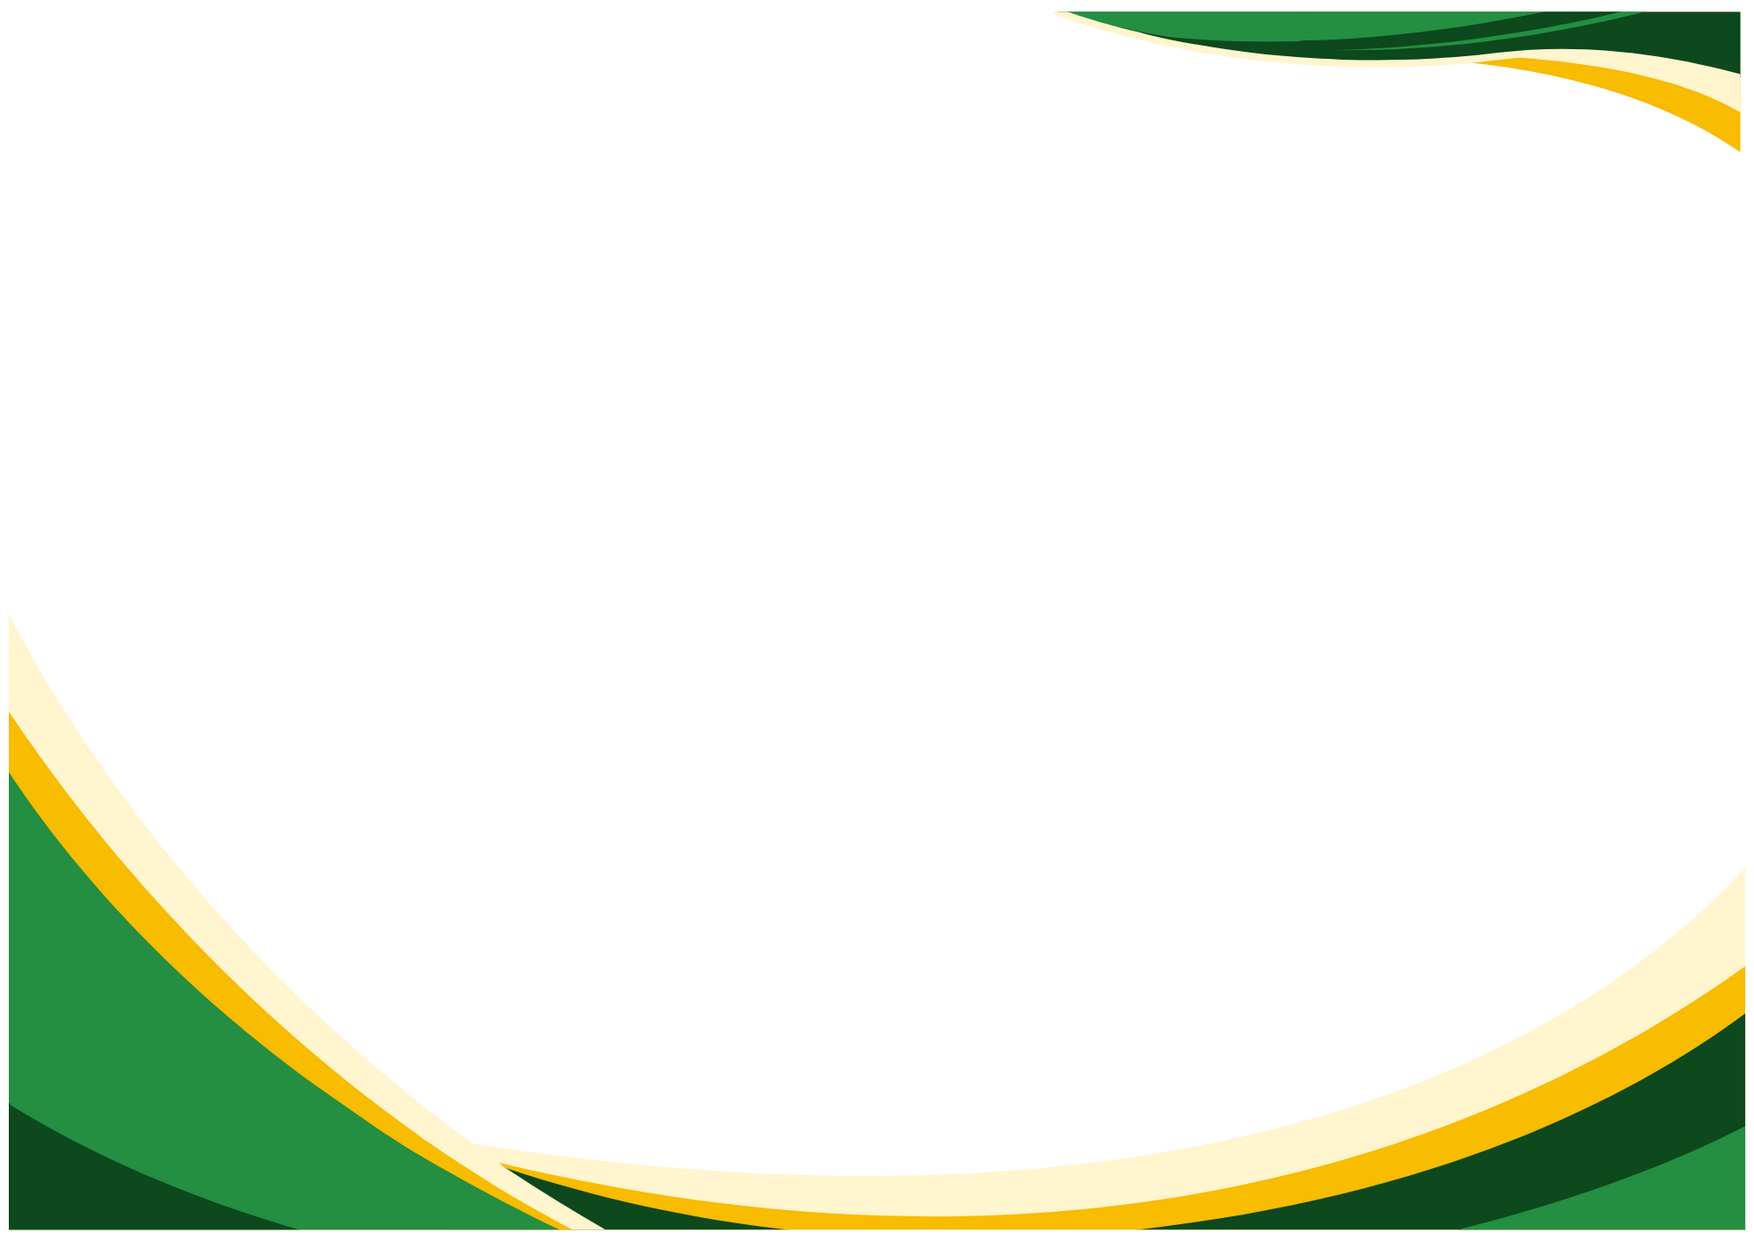
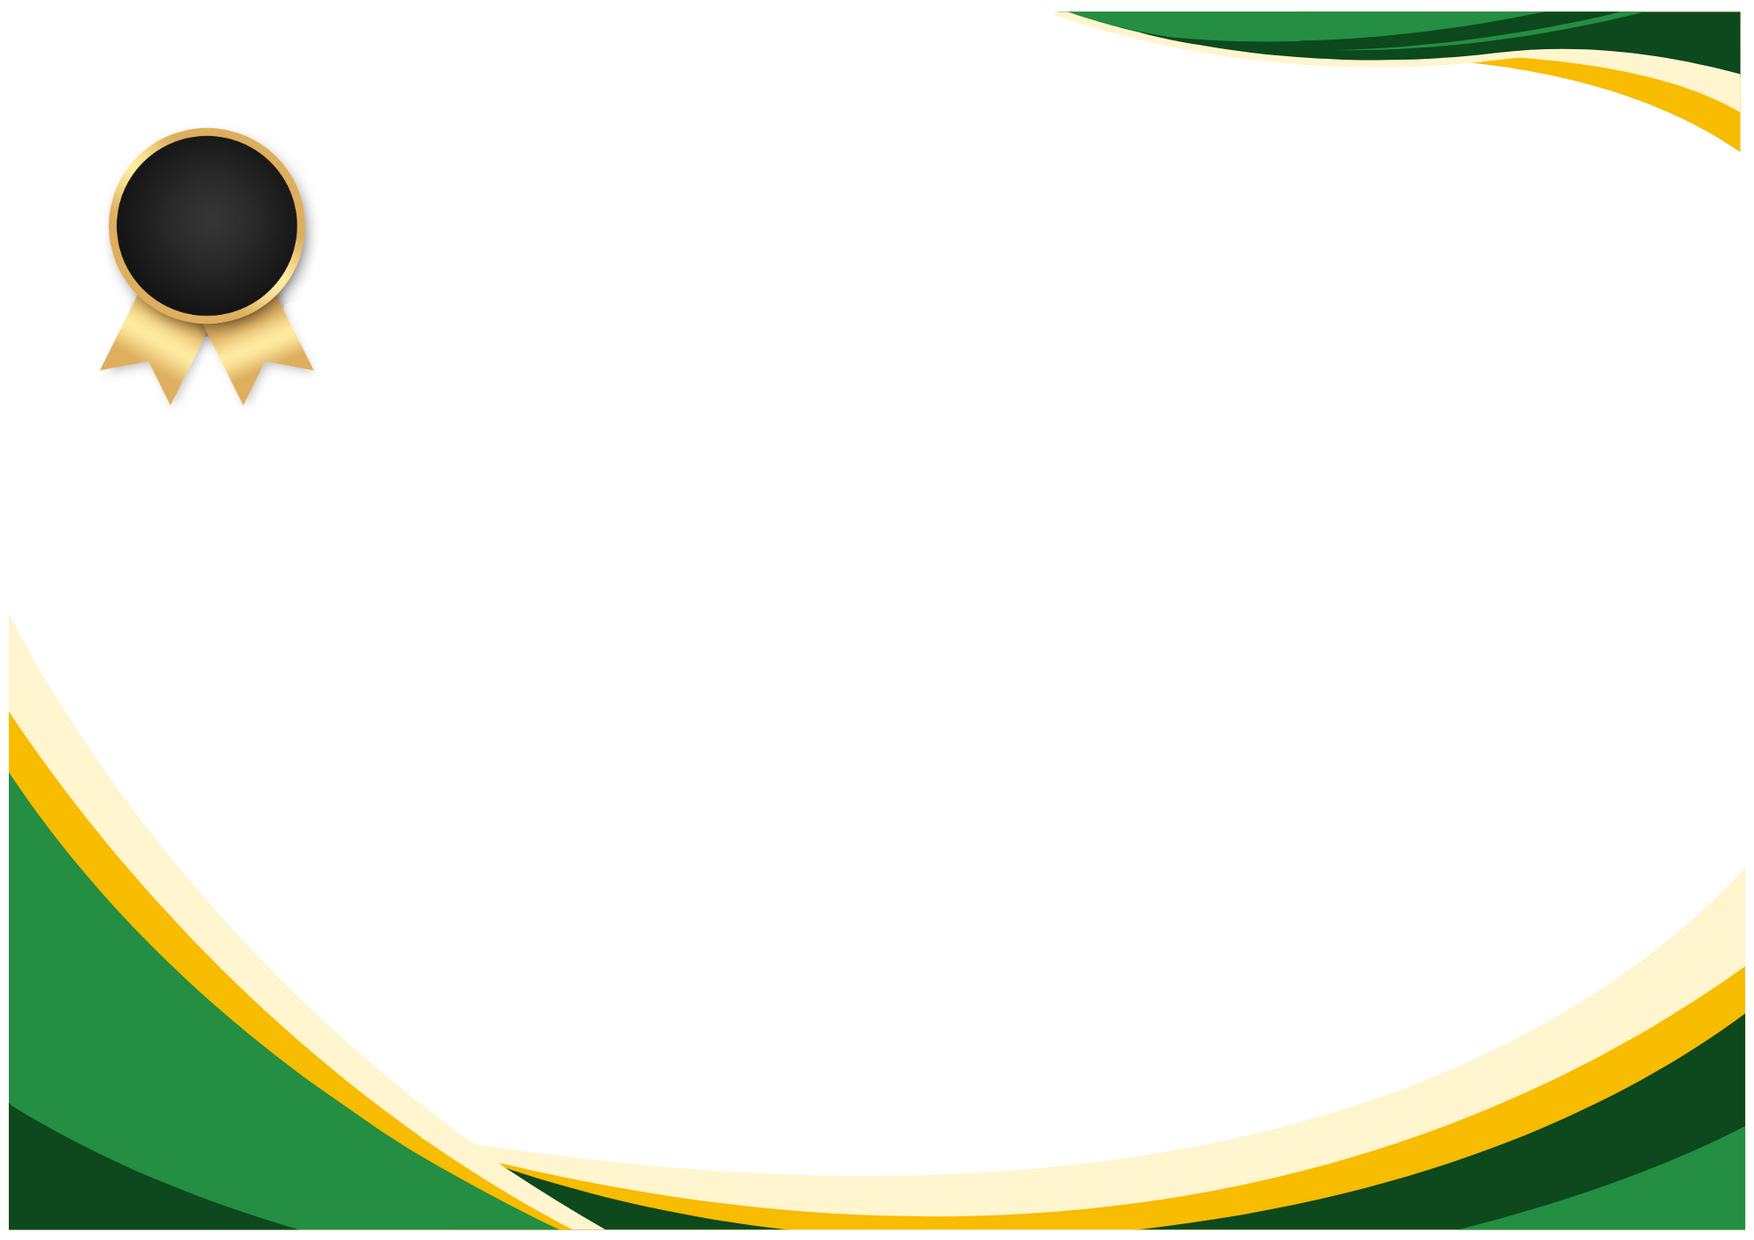
fix

Changed region(s): [[0.0616, 0.0919, 0.1847, 0.3371]]

diff --git a/src/components/AppGramotaPochetnaja.vue b/src/components/AppGramotaPochetnaja.vue
@@ -158,23 +158,23 @@ const formattedDate = computed(() => {
 
 .gramot :deep(.logoSt1),
 .gramot :deep(.logoSnow) {
-  fill: #b39566;
-  /* fill: url(#goldGradient); */
+  /* fill: #eedc92; */
+  fill: url(#goldGradient);
 }
 
 .gramot :deep(.logoSt0) {
   fill: none;
-  stroke: #b39566;
-  /* stroke: url(#goldGradient); */
+  /* stroke: #eedc92; */
+  stroke: url(#goldGradient);
   stroke-width: 8;
   stroke-miterlimit: 10;
 }
 
 .gramot .logo {
-  width: 100px;
+  width: 90px;
   position: absolute;
-  left: 40px;
-  top: 40px;
+  left: 87px;
+  top: 101px;
   z-index: 1;
 }
 
@@ -182,7 +182,7 @@ h1 {
   font-family: 'Lora', serif;
   font-size: 3.2em;
   line-height: 1;
-  margin-top: 80px;
+  margin-top: 110px;
   font-weight: 500;
   color: var(--colorGreen);
 }

diff --git a/src/components/AppBlagodarnost.vue b/src/components/AppBlagodarnost.vue
@@ -158,23 +158,23 @@ const formattedDate = computed(() => {
 
 .gramot :deep(.logoSt1),
 .gramot :deep(.logoSnow) {
-  fill: #b39566;
-  /* fill: url(#goldGradient); */
+  /* fill: #eedc92; */
+  fill: url(#goldGradient);
 }
 
 .gramot :deep(.logoSt0) {
   fill: none;
-  stroke: #b39566;
-  /* stroke: url(#goldGradient); */
+  /* stroke: #eedc92; */
+  stroke: url(#goldGradient);
   stroke-width: 8;
   stroke-miterlimit: 10;
 }
 
 .gramot .logo {
-  width: 100px;
+  width: 90px;
   position: absolute;
-  left: 40px;
-  top: 40px;
+  left: 87px;
+  top: 101px;
   z-index: 1;
 }
 
@@ -182,7 +182,7 @@ h1 {
   font-family: 'Lora', serif;
   font-size: 4em;
   line-height: 1;
-  margin-top: 80px;
+  margin-top: 110px;
   font-weight: 500;
   color: var(--colorGreen);
 }

diff --git a/src/components/AppGramota.vue b/src/components/AppGramota.vue
@@ -158,23 +158,23 @@ const formattedDate = computed(() => {
 
 .gramot :deep(.logoSt1),
 .gramot :deep(.logoSnow) {
-  fill: #b39566;
-  /* fill: url(#goldGradient); */
+  /* fill: #eedc92; */
+  fill: url(#goldGradient);
 }
 
 .gramot :deep(.logoSt0) {
   fill: none;
-  stroke: #b39566;
-  /* stroke: url(#goldGradient); */
+  /* stroke: #eedc92; */
+  stroke: url(#goldGradient);
   stroke-width: 8;
   stroke-miterlimit: 10;
 }
 
 .gramot .logo {
-  width: 100px;
+  width: 90px;
   position: absolute;
-  left: 40px;
-  top: 40px;
+  left: 87px;
+  top: 101px;
   z-index: 1;
 }
 
@@ -182,7 +182,7 @@ h1 {
   font-family: 'Lora', serif;
   font-size: 5em;
   line-height: 1;
-  margin-top: 80px;
+  margin-top: 100px;
   font-weight: 500;
   color: var(--colorGreen);
 }

diff --git a/src/components/icons/AppLogo.vue b/src/components/icons/AppLogo.vue
@@ -5,15 +5,15 @@
         id="goldGradient"
         x1="0%"
         y1="0%"
-        x2="100%"
-        y2="0%"
+        x2="0"
+        y2="100%"
         gradientUnits="userSpaceOnUse"
       >
-        <stop offset="0%" stop-color="#a47237" />
-        <stop offset="30%" stop-color="#dfb651" />
-        <stop offset="50%" stop-color="#eed67d" />
-        <stop offset="70%" stop-color="#dfb651" />
-        <stop offset="100%" stop-color="#a47237" />
+        <stop offset="0%" stop-color="#deae5f" />
+        <stop offset="30%" stop-color="#ebc778" />
+        <stop offset="50%" stop-color="#fde99f" />
+        <stop offset="70%" stop-color="#ebc778" />
+        <stop offset="100%" stop-color="#deae5f" />
       </linearGradient>
     </defs>
 
